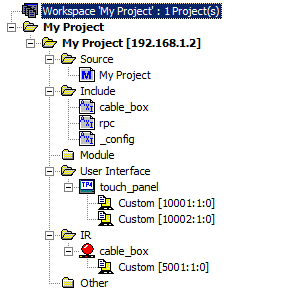
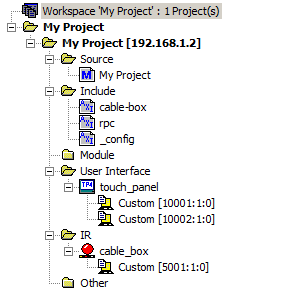
Renamed cable-box.

Changed region(s): [[0.1216, 0.0, 0.7601, 0.0925], [0.4257, 0.339, 0.5169, 0.4007]]

diff --git a/README.md b/README.md
@@ -243,11 +243,11 @@ systems:
 
 * [YAML Workspace Configuration Reference](https://github.com/amclain/netlinx-workspace#yaml-workspace-configuration)
 
-Now create `My Project.axs` and `include/cable_box.axi`. Using Sublime Text,
+Now create `My Project.axs` and `include/cable-box.axi`. Using Sublime Text,
 these files can be populated using the `NetLinx: New From Template: Overview`
 and `NetLinx: New From Template: Include` commands, respectively. If you used
 the templates, comment out the code for the [logger](https://github.com/amclain/amx-lib-log#amx-log-library)
-for this example. Also add `#include 'cable_box'`.
+for this example. Also add `#include 'cable-box'`.
 
 ```netlinx
 (***********************************************************)
@@ -257,7 +257,7 @@ for this example. Also add `#include 'cable_box'`.
 // Comment this out for the example.
 // #include 'amx-lib-log'
 
-#include 'cable_box'
+#include 'cable-box'
 
 (***********************************************************)
 (*                 STARTUP CODE GOES BELOW                 *)
@@ -283,7 +283,7 @@ Open `My Project.apw` in NetLinx Studio and take a look at the workspace tree.
 ![NetLinx Studio Workspace Screenshot](guides/getting_started/my_project_apw_01.png)
 
 The master source code, touch panel, and IR files show up in the tree, just like
-we would expect. What you might not expect is that `cable_box` has shown up
+we would expect. What you might not expect is that `cable-box` has shown up
 under the `Include` folder even though it wasn't specified in the config.
 This is a feature of [netlinx-workspace](https://github.com/amclain/netlinx-workspace#netlinx-workspace), 
 which automatically consumes include files since there will probably be a lot of
